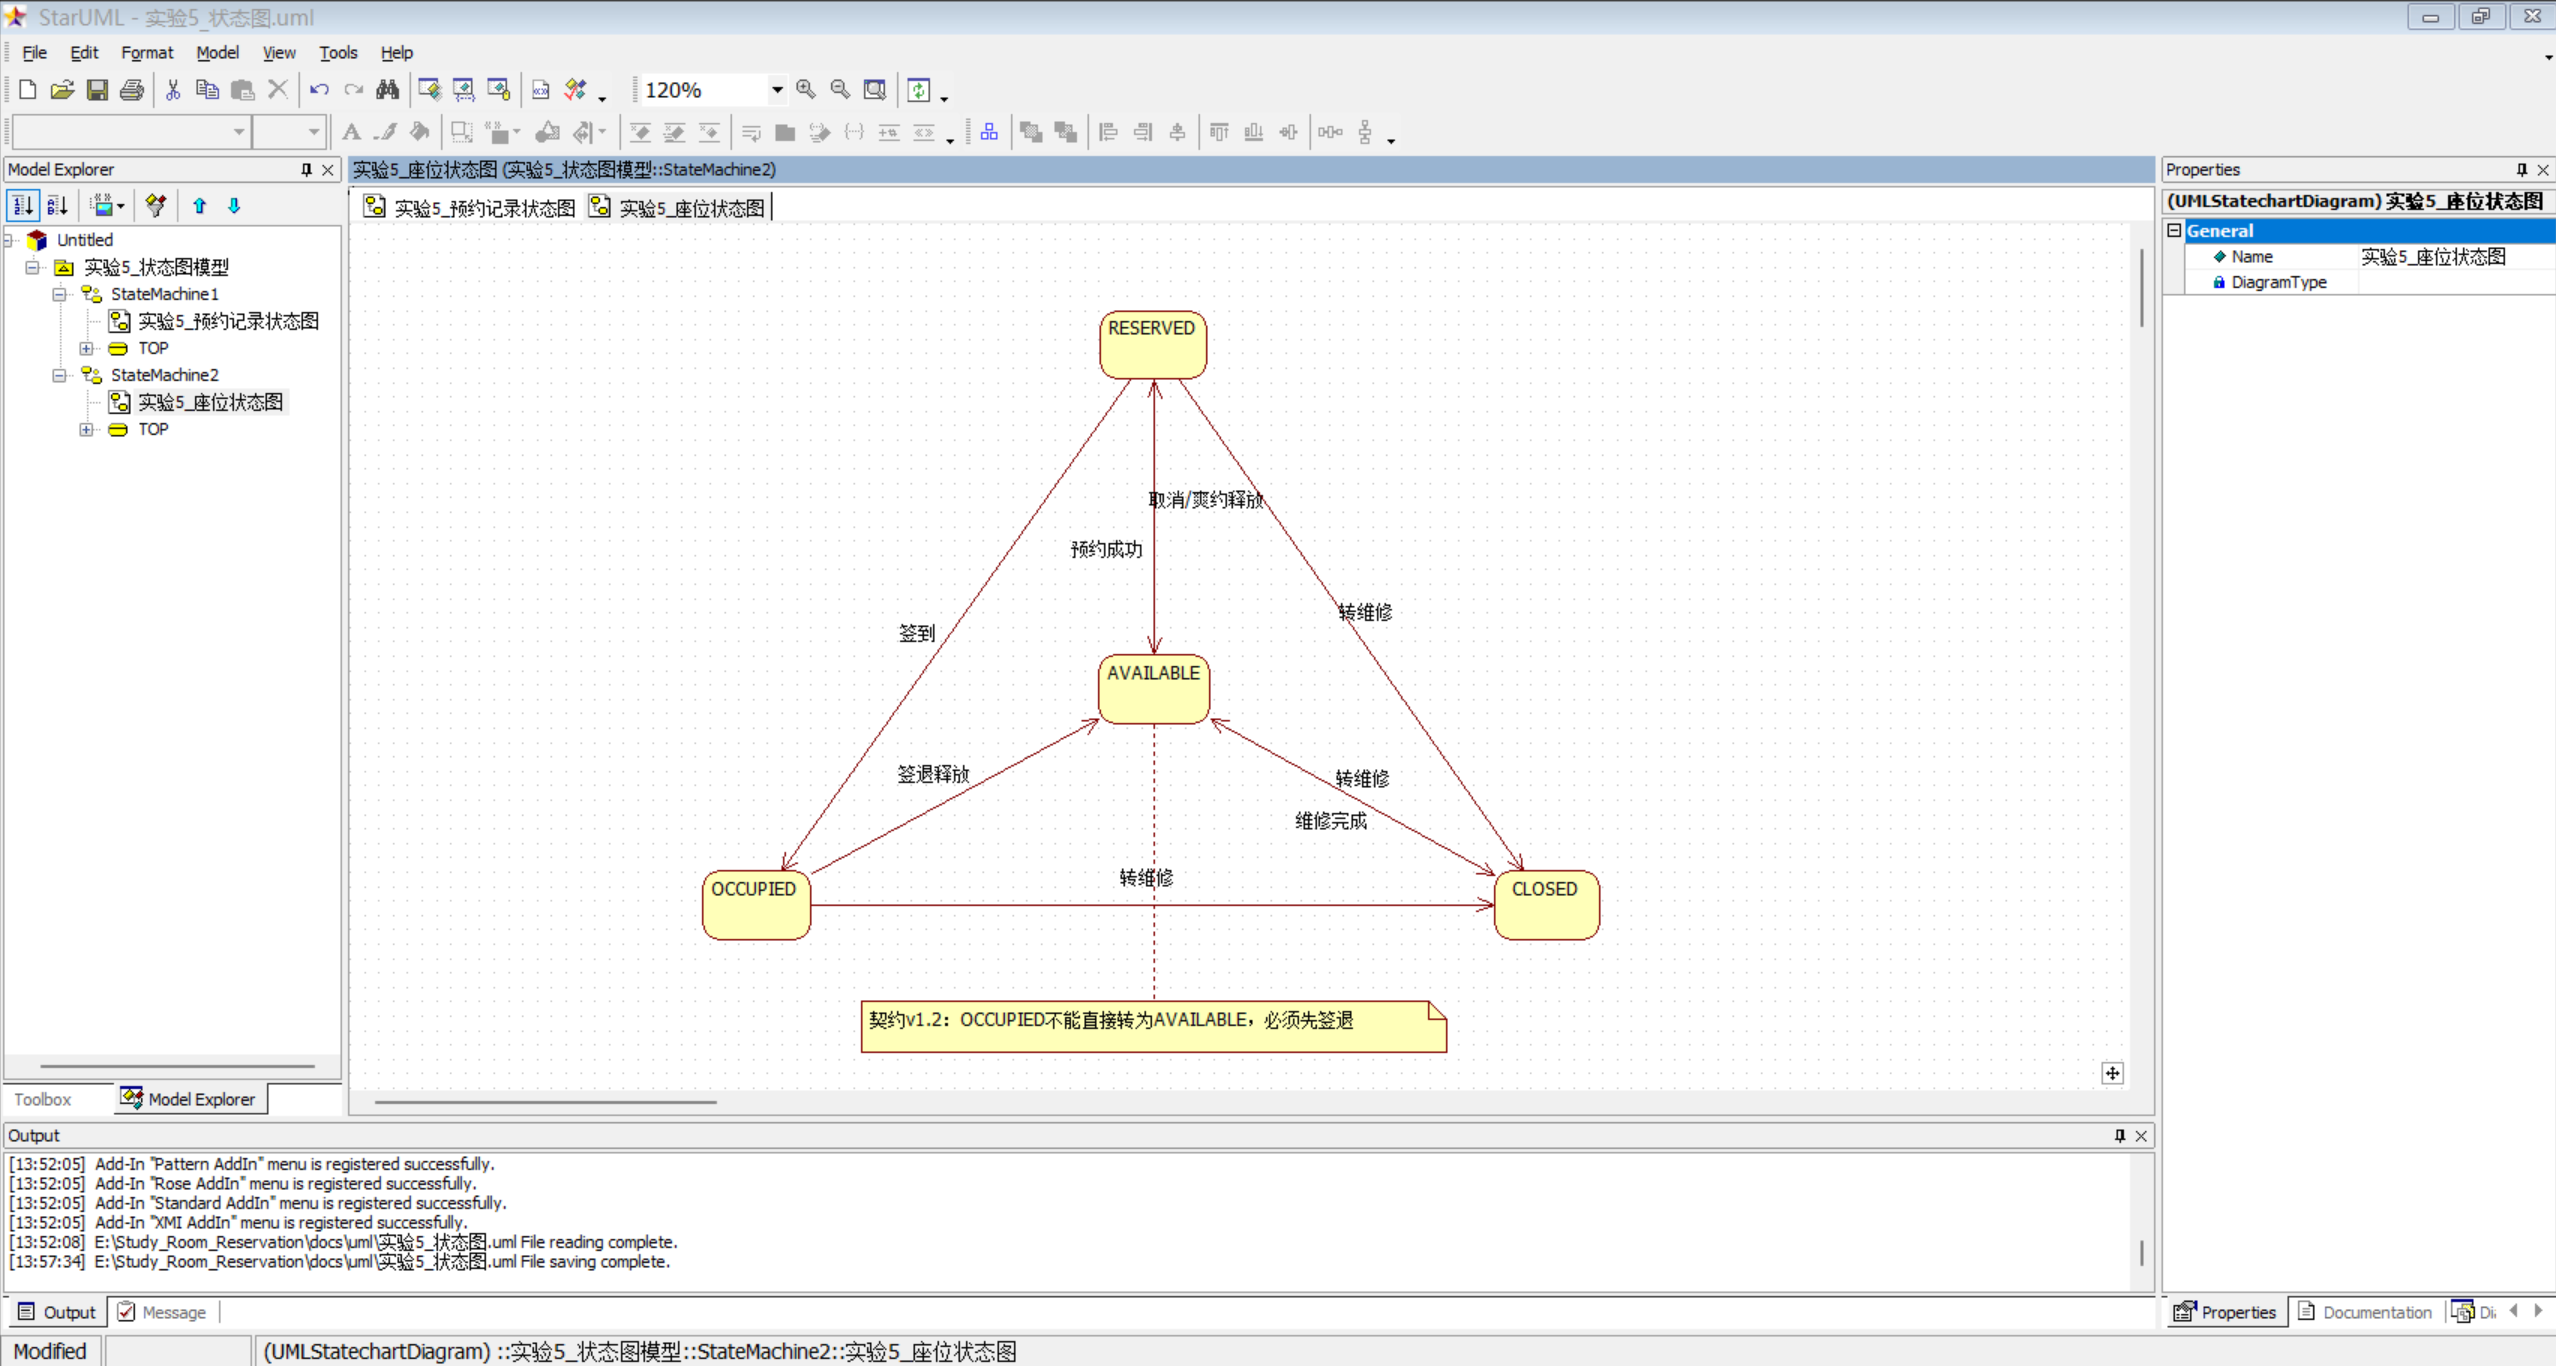
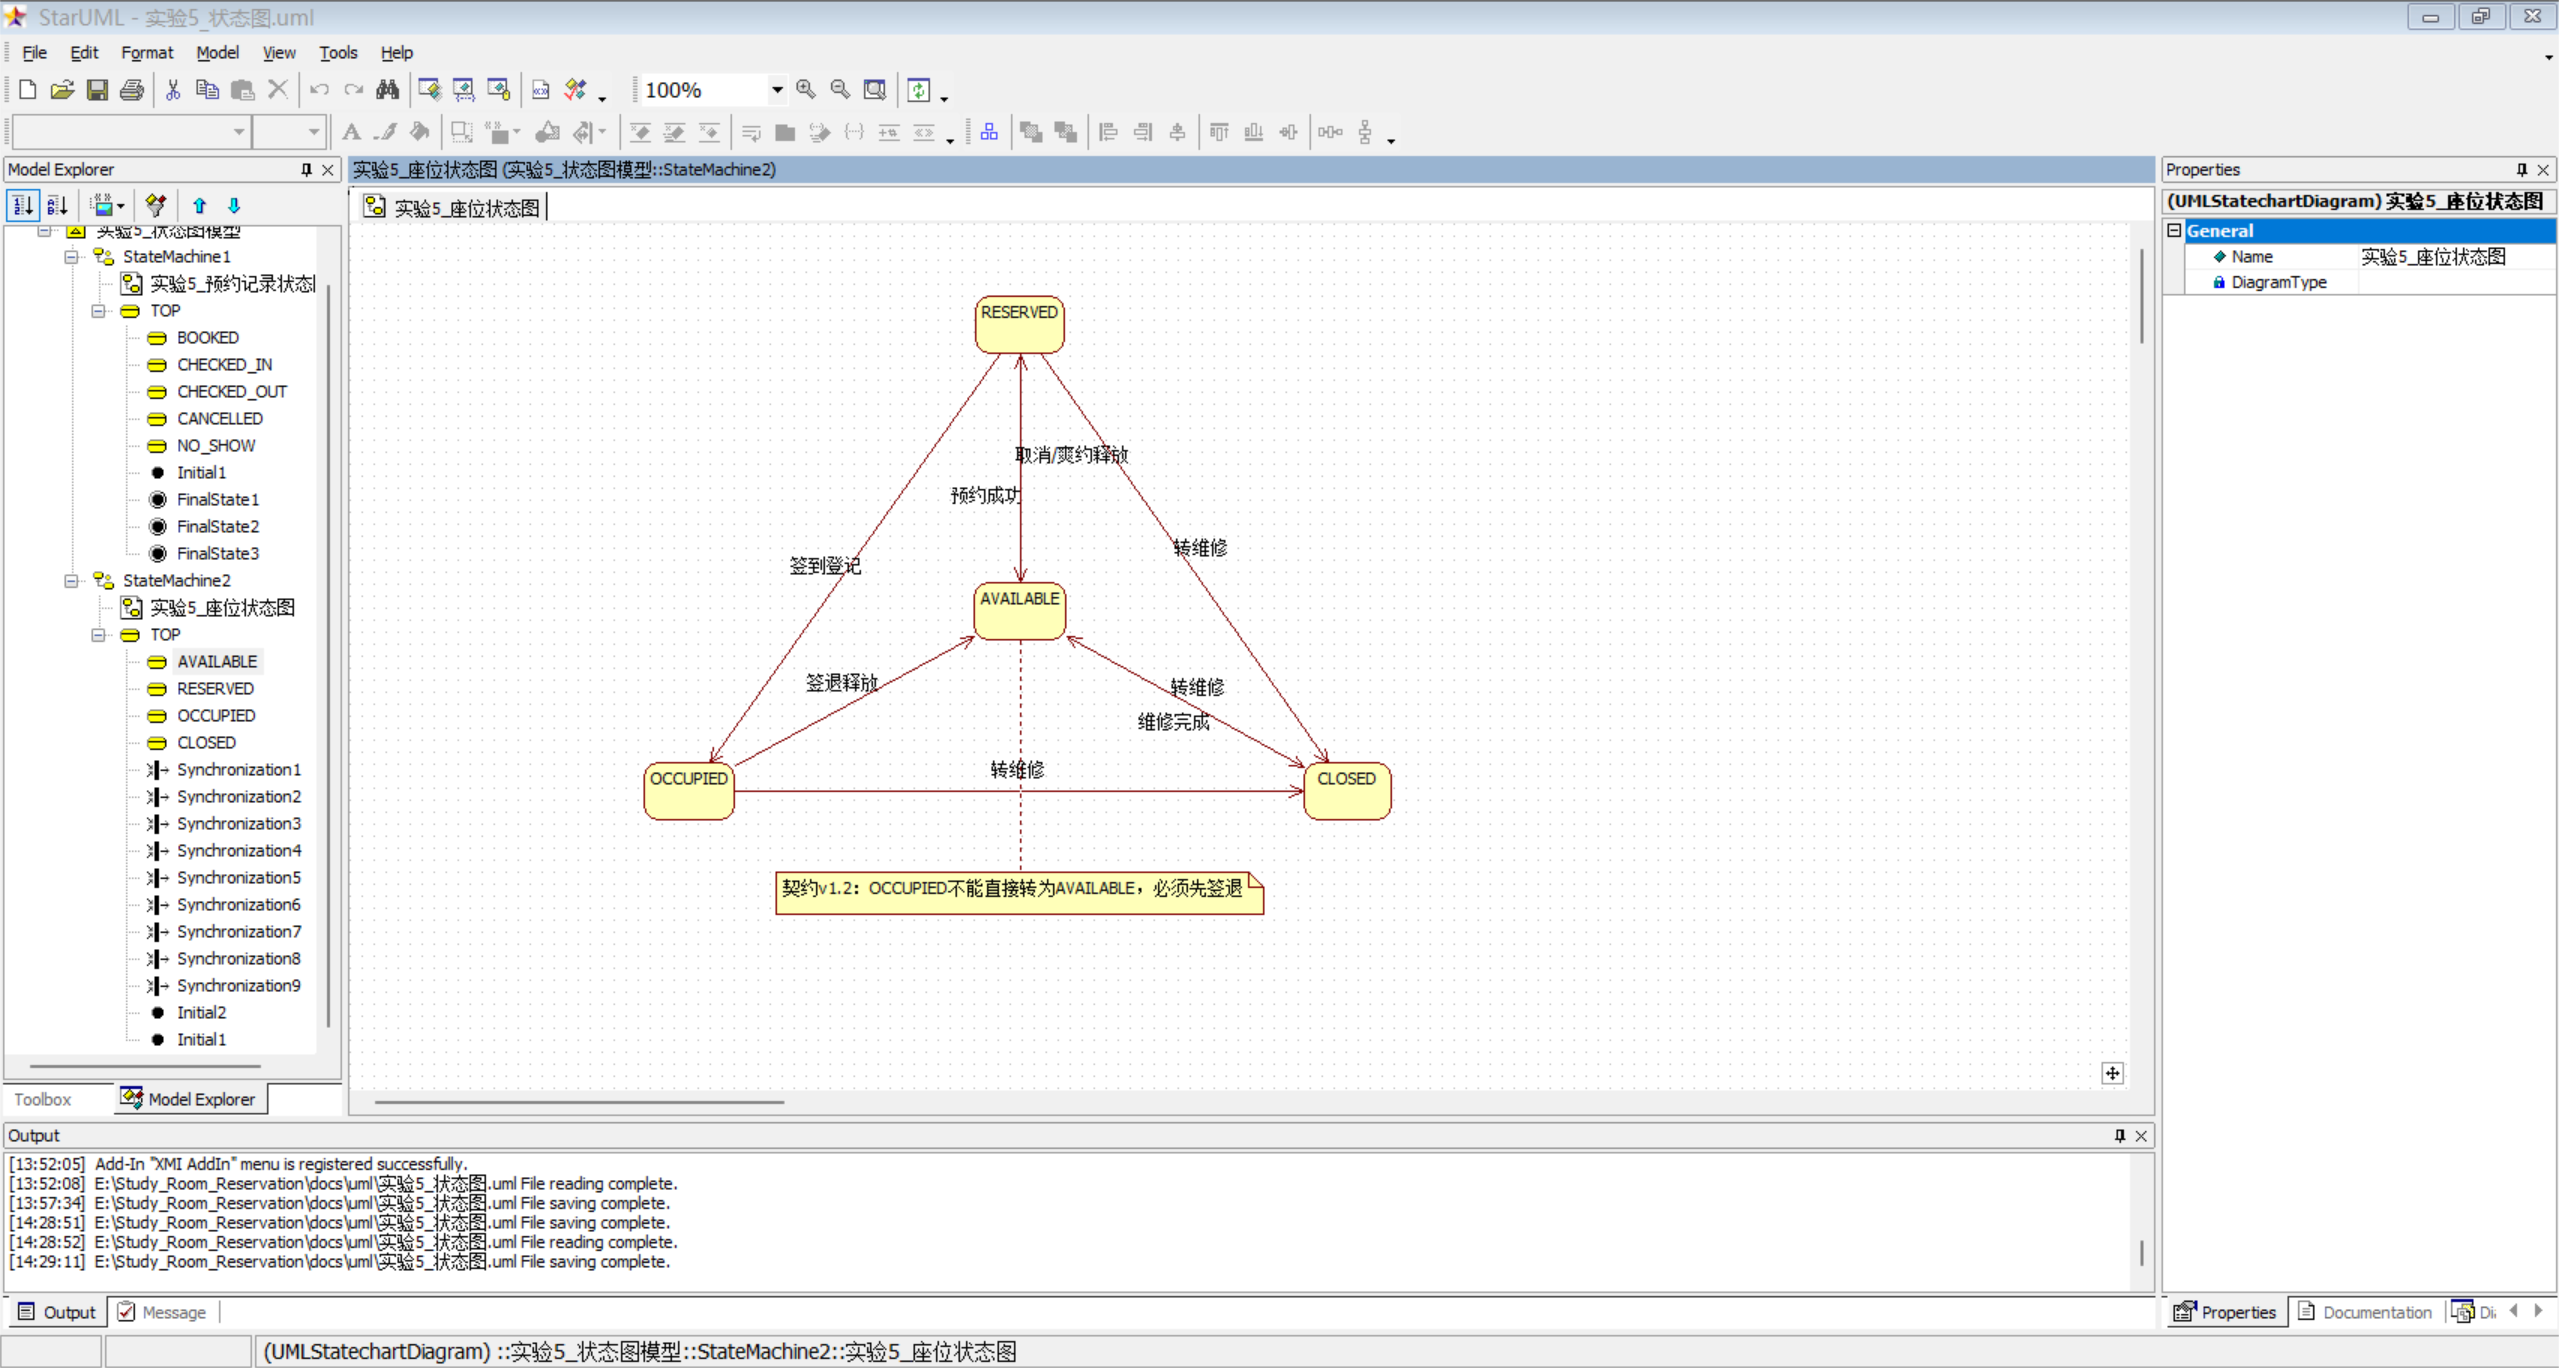
A-4: 座位状态图重新导出并同步 Word 与对接文档
座位图箭头文字改为「签到登记」、备注框改为契约 v1.2；Word 内嵌图按换 blob 方式同步，未重跑 build；Word 讨论段 checkOut() 更正为 signOut()；对接-A4 升 v1.2。

diff --git a/docs/工作记录.md b/docs/工作记录.md
@@ -5,8 +5,8 @@
 > **维护者**：易雨杰（成员A）
 > **组员**：叶梅冰（成员B）
 > **创建时间**：2026-10-28（选题切换后重新建档）
-> **最后修改**：2026-11-07（v3.8）
-> **版本**：v3.8
+> **最后修改**：2026-11-07（v3.9）
+> **版本**：v3.9
 
 ## 一、团队与分工
 
@@ -71,6 +71,7 @@
 | 2026-11-07 | 易雨杰（A） | 契约变更 | 接口契约升级 v1.2，补齐界面取数的三项缺口：① 第三节 `Reservation` 增加只读展示字段 `studentName`、`phone`（写入时按学号反查学生档案填充，读取 CSV 时还原，表头不变），`reserve` 返回的对象也带上这两个值；② 第六节新增 `ReservationService.findReservation(resNo)`（按号查单条预约，不存在抛 `NOT_FOUND`），供在座名单补座位与姓名；③ 第六节新增 `StudentService`（`findByStudentId` 学号为空抛 `PARAM`、查不到抛 `STUDENT_NOT_FOUND`；`listStudents` 按信用分升序），`ServiceFactory.getStudentService()` 暴露。新增 2 个单测（`savedReservationCarriesStudentNameAndPhone`、`studentServiceReturnsCreditScoreAndRejectsUnknownId`），`mvn -o -B clean test` 36 个用例通过（CONTRACT-CHANGE） | `docs/contract/接口契约.md`、`entity/Reservation.java`、`dao/impl/CsvReservationDao.java`、`service/ReservationService.java`、`service/impl/ReservationServiceImpl.java`、`service/StudentService.java`、`service/impl/StudentServiceImpl.java`、`service/ServiceFactory.java`、`src/test/java/com/studyroom/service/`、`docs/contract/对接-A6到后续B.md`、`docs/contract/对接-A7到A8联调清单.md`、`docs/development/A6-实现记录.md`、`docs/进度看板.md`、`README.md` | 随本次提交 |
 | 2026-11-07 | 易雨杰（A） | A-8 对接 | B 尚未开始写界面代码，先把对接资料补到「能照着直接写」：`对接-A6到后续B.md` 升 v1.2，新增第七节开工步骤（`git merge origin/dev-A` 拉代码、`main` 方法骨架、爽约扫描 `javax.swing.Timer` 写法、学号取 `User.getUsername()` 的约定、三张表列定义与取值器、6 个操作分别刷哪张表），并列出当前确实取不到的三项数据（预约记录无姓名手机、无学生档案接口取不到信用分、在座名单只有预约号）；`对接-A7到A8联调清单.md` 升 v1.1，第一节补「先合并 dev-A」，第七节补最新提交号 | `docs/contract/对接-A6到后续B.md`、`docs/contract/对接-A7到A8联调清单.md`、`docs/工作记录.md` | 随本次提交 |
 | 2026-11-07 | 易雨杰（A） | 评审修正 | 按 B 对 A-4/A-5/A-6/A-7 的评审意见逐条修正：① 座位状态图 T-04 由 `AVAILABLE --签到-->` 改为 `RESERVED --签到登记--> OCCUPIED`，同步报告 md、Word 与 A-4 对接状态表；正文「从入库到报废」改为「入库、可用、预约、使用到维修关闭，再重新启用」的循环生命周期，座位图图例删掉终止伪状态（预约记录状态图保留，那里确有终态）；明确 `AVAILABLE`/`RESERVED` 之间是两条独立单向箭头，不用双向箭头；② `CsvReservationDao.toRow()` 改为优先取实体自带的 `studentName`/`phone`，仅为空时反查学生档案，避免学生改资料后覆盖历史预约快照；③ `DataInitializer.seedSamples()` 的 `users.csv` 补 `20240001/123456/STUDENT`、`20240002/123456/STUDENT`，首次启动学生端可登录；④ 两份对接文档的版本引用与用例数改为契约 v1.2 与 38 个用例。新增 2 个单测（`reservationKeepsSnapshotWhenStudentProfileChanges`、`seededUsersAllowStudentLogin`），`mvn -o -B clean test` 38 个用例通过。B 同时确认：爽约扫描 A 只给 `handleNoShow(now)`、B 用 `javax.swing.Timer` 启动一次后每小时一次；`AuthService` 保持无状态；契约 v0.5～v1.2 全部变更合理，后续缺漏走 `CONTRACT-CHANGE` | `docs/reports/实验5-状态图.md`、`docs/reports/实验5-状态图.docx`、`docs/contract/对接-A4到后续B.md`、`docs/contract/对接-A5到后续A6与B.md`、`docs/contract/对接-A6到后续B.md`、`docs/contract/对接-A7到A8联调清单.md`、`dao/impl/CsvReservationDao.java`、`util/DataInitializer.java`、`src/test/java/com/studyroom/dao/CsvDaoRoundTripTest.java`、`docs/development/A6-实现记录.md`、`docs/进度看板.md`、`README.md` | 随本次提交 |
+| 2026-11-07 | 易雨杰（A） | A-4 补正 | 座位状态图按修正后的 StarUML 工程重新导出：`docs/assets/实验5_座位状态图.jpg`（箭头文字「签到登记」、备注框由「契约v0.6」改为「契约v1.2」）与整窗截图同步更新，`实验5-状态图.docx` 的内嵌座位图按换 blob 方式替换（`image1.jpeg` 34485→34759 字节，未重跑 build，版式与手改内容保持不变）；同时修正 Word 讨论段中误写的 `checkOut()` 为契约方法名 `signOut()`，`对接-A4到后续B.md` 升 v1.2 并注明图已重导、Word 内嵌图已同步；`mvn -o -B clean test` 38 个用例仍全通过 | `docs/assets/实验5_座位状态图.jpg`、`docs/assets/实验5_座位状态图-界面.png`、`docs/uml/实验5_状态图.uml`、`docs/reports/实验5-状态图.docx`、`docs/contract/对接-A4到后续B.md` | 随本次提交 |
 | 2026-11-05 | 叶梅冰（B） | B-2 | 实验4 签退活动图：在 StarUML 中绘制“值班管理员签退”泳道活动图（含正常签退与超时异常分支），对齐契约 v0.6 的信用分扣减逻辑；导出图片 | `docs/uml/实验4_签退活动图.uml`、`docs/assets/实验4_签退活动图.jpg`、`docs/assets/实验4_签退活动图-界面.png` | `9d34d59` |
 | 2026-11-05 | 叶梅冰（B） | B-2 | 实验4 报告撰写：按指导书模板撰写实验4报告（Markdown + Word 版），包含业务流程说明与异常分支描述 | `docs/reports/实验4-签退活动图.md`、`docs/reports/实验4-签退活动图.docx` | `9d34d59` |
 | 2026-11-06 | 叶梅冰（B） | B-2 | 按 A 评审意见修改实验4：1. 将报告“两个并行”改为“两个顺序”；2. 五(三)补充 `signOut()` 事务说明；3. 精简异常分支提示语，去掉“爽约”描述避免前台判定歧义；重新导出活动图并同步 Word。 | `docs/reports/实验4-*.md`、`.docx`、`docs/assets/实验4_*.jpg`、`docs/uml/实验4_签退活动图.uml`、`docs/assets/实验4_签退活动图-界面.png`| `9c2bde7` |
@@ -130,3 +131,4 @@
 | v3.6 | 2026-11-07 | 易雨杰 | 契约 v1.2：`Reservation` 补 `studentName`/`phone` 展示字段、新增 `findReservation`、新增 `StudentService`（信用分查询），补 2 个单测（共 36 个通过）；B 对接文档升 v1.3，缺口从「取不到」改为「已补」 |
 | v3.7 | 2026-11-07 | 易雨杰 | B 评审意见落实：座位状态图 T-04 改 `RESERVED --签到登记--> OCCUPIED`（md/Word/对接表三处同步）、正文改循环生命周期并删座位图图例的终止伪状态、明确两条单向箭头；`CsvReservationDao.toRow` 改为快照优先取实体值；`seedSamples` 补两个学生登录账号；对接文档版本与用例数改 v1.2/38 个；B 确认爽约扫描分工、`AuthService` 无状态与契约 v0.5～v1.2 全部变更；补 2 个单测（共 38 个通过） |
 | v3.8 | 2026-11-07 | 易雨杰 | 合并 `origin/main` 的 B-2 成果（PR #11）：实验4 签退活动图与报告入仓库；README、工作记录、进度看板三处共享文档按两边记录缝合 |
+| v3.9 | 2026-11-07 | 易雨杰 | A-4 补正：座位状态图按修正后工程重新导出（箭头「签到登记」、备注框契约 v1.2），Word 内嵌图换 blob 同步（未重跑 build），Word 讨论段 `checkOut()` 更正为 `signOut()`；A-4 对接文档升 v1.2；测试 38 个仍全通过 |

diff --git a/docs/contract/对接-A4到后续B.md b/docs/contract/对接-A4到后续B.md
@@ -2,16 +2,16 @@
 
 > **文件作用**：成员A 把实验5 UML 状态图交接给成员B，作为 B 画实验4 签退活动图、实验6 在线预约时序图、以及 Swing 前端界面时「状态怎么切、什么事件触发、什么条件下走哪条分支」的依据。B 评审时对照此文件与两张状态图即可，不需要再问 A 状态含义。
 > **课程**：CST9301 软件工程　｜　**编写**：易雨杰（成员A，2024611209）　｜　**接收**：叶梅冰（成员B，2024611038）
-> **日期**：2026-11-06　｜　**版本**：v1.1（按 B 评审修正：T-04 源状态改 `RESERVED`、事件改「签到登记」，删座位图的终止伪状态，补循环生命周期说明与箭头画法约定，契约依据升 v1.2）　｜　**状态**：A-4 已完成，B 已评审确认
+> **日期**：2026-11-07　｜　**版本**：v1.2（按 B 评审修正：T-04 源状态改 `RESERVED`、事件改「签到登记」，删座位图的终止伪状态，补循环生命周期说明与箭头画法约定，契约依据升 v1.2；座位状态图已按修正后的工程重新导出，图上箭头文字为「签到登记」、备注框为「契约v1.2」，Word 报告内嵌图同步替换）　｜　**状态**：A-4 已完成，B 已评审确认
 
 ## 一、A 已经交付什么
 
 | 文件 | 说明 |
 |---|---|
 | `docs/reports/实验5-状态图.md` | 实验5 报告 Markdown 版，含状态图对象筛选依据、两张状态图的状态清单与转移表、一致性核对、讨论 4 小节 |
-| `docs/reports/实验5-状态图.docx` | 同上 Word 版，已定稿（标题「实验5 UML状态图（自习室预约管理子系统）」，实验时间 2026 年 10 月 28 日），提交用 |
+| `docs/reports/实验5-状态图.docx` | 同上 Word 版，已定稿（标题「实验5 UML状态图（自习室预约管理子系统）」，实验时间 2026 年 10 月 28 日），提交用；内嵌的两张状态图已与仓库 JPG 同步（座位图为修正后版本） |
 | `docs/uml/实验5_状态图.uml` | StarUML 5.0 工程，同一个模型文件下含 `座位状态图` 与 `预约记录状态图` 两张图 |
-| `docs/assets/实验5_座位状态图.jpg` | 座位状态图导出图（已插入报告图5-1） |
+| `docs/assets/实验5_座位状态图.jpg` | 座位状态图导出图（已插入报告图5-1；箭头文字为「签到登记」，备注框为「契约v1.2」） |
 | `docs/assets/实验5_座位状态图-界面.png` | 座位状态图的 StarUML 整窗截图（附录用） |
 | `docs/assets/实验5_预约记录状态图.jpg` | 预约记录状态图导出图（已插入报告图5-2） |
 | `docs/assets/实验5_预约记录状态图-界面.png` | 预约记录状态图的 StarUML 整窗截图（附录用） |
